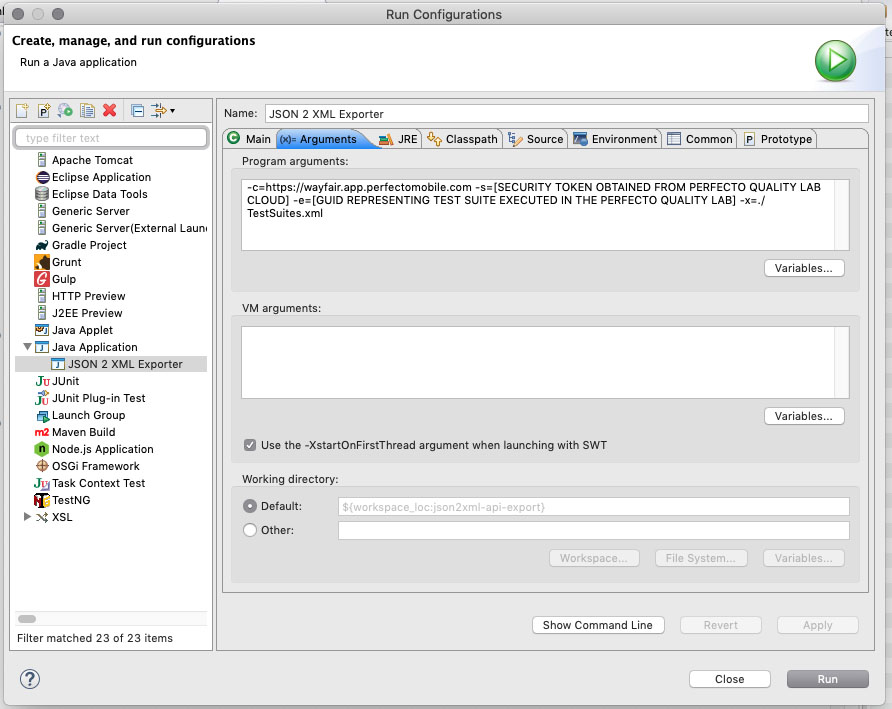
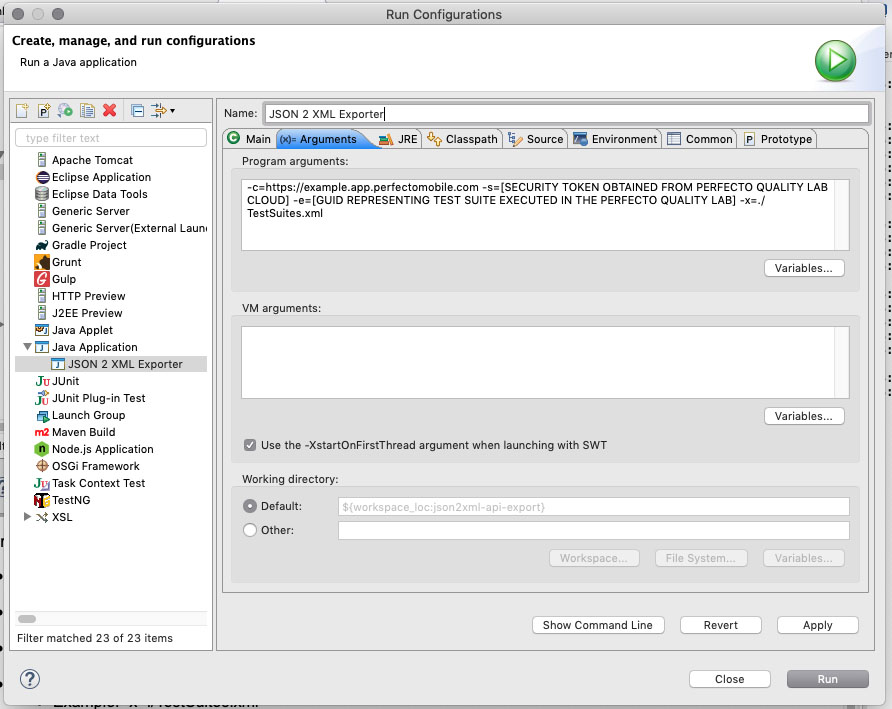
Correct readme URL and images.

diff --git a/README.md b/README.md
@@ -6,7 +6,7 @@ Usage
 =
 Either run at the command line:
 
-> com.perfectomobile.Exporter -c=https://wayfair.app.perfectomobile.com -s=[SECURITY TOKEN OBTAINED FROM PERFECTO QUALITY LAB CLOUD] -e=[GUID REPRESENTING TEST SUITE EXECUTED IN THE PERFECTO QUALITY LAB] -x=./TestSuites.xml
+> com.perfectomobile.Exporter -c=https://example.app.perfectomobile.com -s=[SECURITY TOKEN OBTAINED FROM PERFECTO QUALITY LAB CLOUD] -e=[GUID REPRESENTING TEST SUITE EXECUTED IN THE PERFECTO QUALITY LAB] -x=./TestSuites.xml
 
 Or create an Eclipse run configuration:
 
